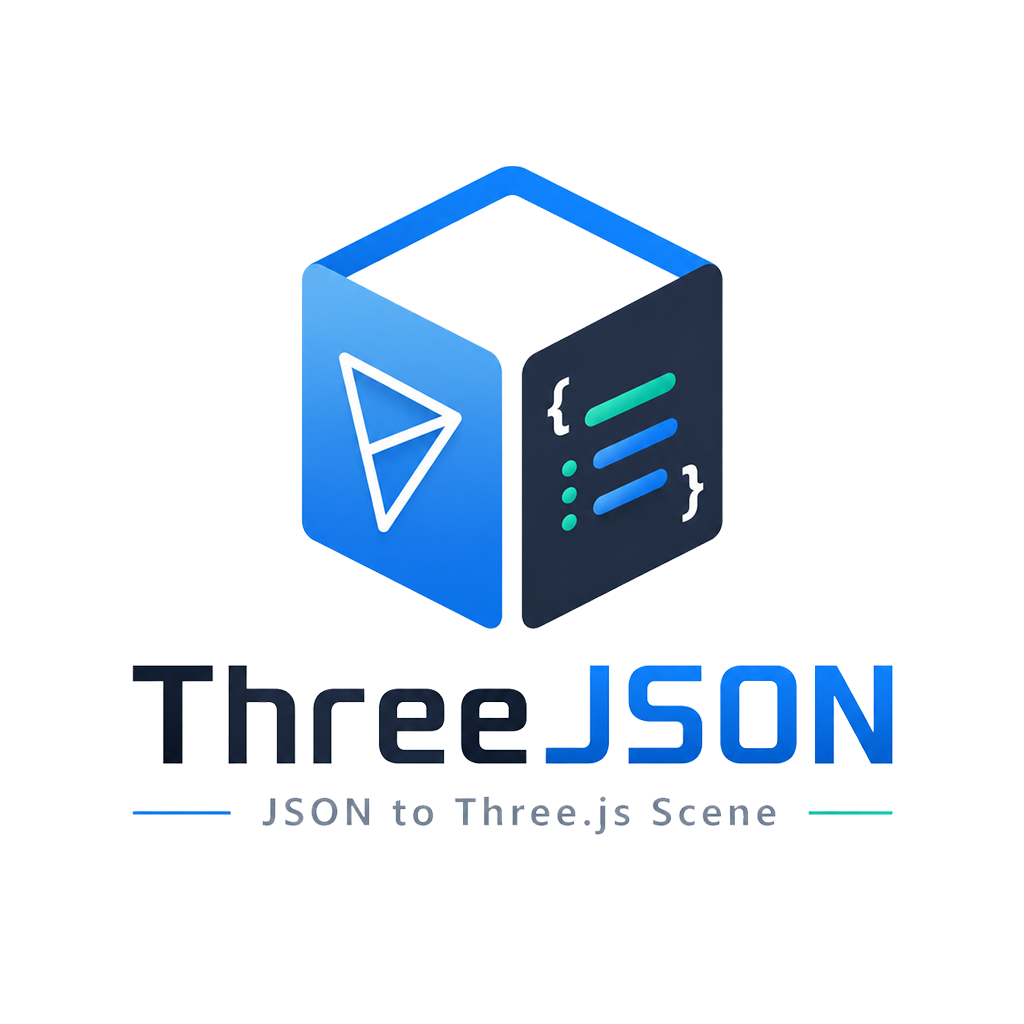
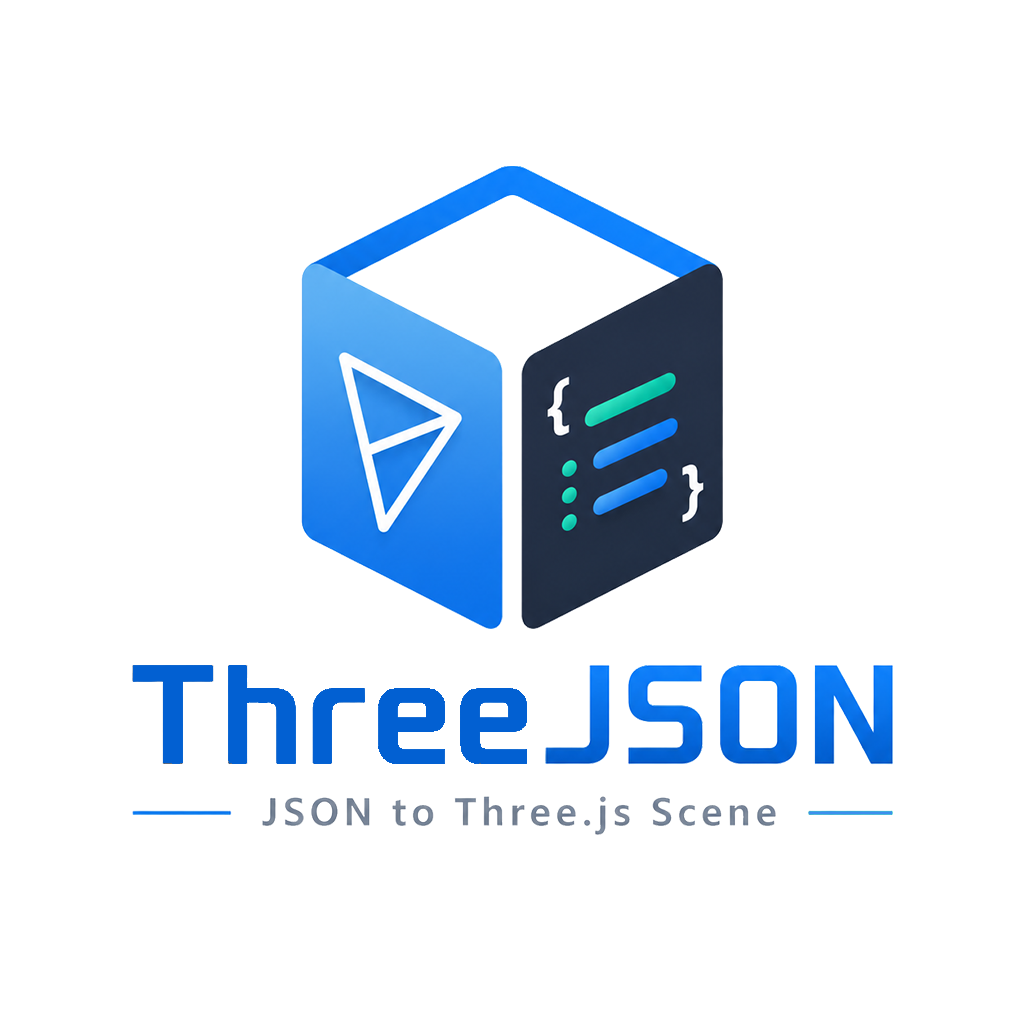
feat: fix editor

Changed region(s): [[0.125, 0.625, 0.5312, 0.75], [0.8125, 0.7812, 0.875, 0.8125]]

diff --git a/tools/scene-host/editor/js/editorApp.js b/tools/scene-host/editor/js/editorApp.js
@@ -1827,6 +1827,27 @@ export async function bootstrapSceneHostEditor() {
     }
   });
 
+  /** Strips the blank-orbit preset's default "room-floor" object unless the user opted in via
+   * Settings → General → 新建场景默认添加地板 (general.newSceneIncludeFloor, default off). */
+  function stripDefaultFloorIfDisabled(payload) {
+    if (editorSettings?.general?.newSceneIncludeFloor) {
+      return payload;
+    }
+    if (!payload || !Array.isArray(payload.objectList)) {
+      return payload;
+    }
+    return {
+      ...payload,
+      objectList: payload.objectList.filter((entry) => entry?.objType !== "floor")
+    };
+  }
+
+  function openBlankScenePreset() {
+    return presetScenePanel?.openPresetById?.(BLANK_SCENE_PRESET_ID, {
+      transformPayload: stripDefaultFloorIfDisabled
+    });
+  }
+
   function wireMenus() {
     initTopMenubarExclusiveOpen(document, closeAllDropdowns);
     document.getElementById("menuOpenScene")?.addEventListener("click", () => {
@@ -1838,6 +1859,9 @@ export async function bootstrapSceneHostEditor() {
     });
     document.getElementById("emptyStateOpenBtn")?.addEventListener("click", () => {
       fileInputs.topBarOpen?.click();
+    });
+    document.getElementById("emptyStateNewBtn")?.addEventListener("click", () => {
+      void openBlankScenePreset();
     });
     document.getElementById("emptyStateOpenDefaultBtn")?.addEventListener("click", () => {
       void loadSceneFromUrl(getDefaultSceneJsonUrl(editorSettings), "示例场景");
@@ -1967,7 +1991,7 @@ export async function bootstrapSceneHostEditor() {
       closeAllDropdowns();
     });
     document.getElementById("menuNewBlankOrbit")?.addEventListener("click", () => {
-      void presetScenePanel?.openPresetById?.(BLANK_SCENE_PRESET_ID);
+      void openBlankScenePreset();
       closeAllDropdowns();
     });
     document.getElementById("menuUndo")?.addEventListener("click", () => {

diff --git a/tools/scene-host/editor/js/presetScenePanel.js b/tools/scene-host/editor/js/presetScenePanel.js
@@ -58,7 +58,7 @@ export function createPresetScenePanel(host) {
     contextMenu.style.top = `${Math.max(8, top)}px`;
   }
 
-  async function openPresetScene(entry) {
+  async function openPresetScene(entry, options = {}) {
     if (!entry?.id) {
       host.showMessage("场景预设配置无效。", "warning");
       return;
@@ -67,10 +67,13 @@ export function createPresetScenePanel(host) {
     if (!ok) {
       return;
     }
-    const parsed = await readPresetJson(entry.id);
+    let parsed = await readPresetJson(entry.id);
     if (!parsed) {
       host.showMessage("场景预设缓存不存在，请刷新页面后重试。", "warning");
       return;
+    }
+    if (typeof options.transformPayload === "function") {
+      parsed = options.transformPayload(parsed) || parsed;
     }
     host.toggleStartupEmptyState?.(false);
     host.getUi?.()?.setLoadingMessage?.("正在加载场景预设...");
@@ -214,7 +217,7 @@ export function createPresetScenePanel(host) {
   return {
     init,
     refresh,
-    async openPresetById(presetId) {
+    async openPresetById(presetId, options = {}) {
       const entries = await loadPresetSceneEntries();
       const entry = entries.find((item) => item.id === presetId);
       if (!entry) {
@@ -222,7 +225,7 @@ export function createPresetScenePanel(host) {
         return;
       }
       host.closeAllDropdowns?.();
-      await openPresetScene(entry);
+      await openPresetScene(entry, options);
     }
   };
 }

diff --git a/tools/scene-host/editor/_shell-body.html b/tools/scene-host/editor/_shell-body.html
@@ -154,9 +154,10 @@
         <button type="button" class="editModeSeg" data-trans-mode="rotate" aria-pressed="false" title="旋转">旋转</button>
         <button type="button" class="editModeSeg" data-trans-mode="scale" aria-pressed="false" title="缩放">缩放</button>
       </div>
-      <div class="editModeToggle" id="editModeToggle" role="group" aria-label="编辑模式：3D 图形 / Code 代码">
-        <button type="button" class="editModeSeg editModeSegActive" id="editModeSeg3d" aria-pressed="true" title="图形编辑模式（在画布中直接操作）">3D</button>
+      <div class="editModeToggle" id="editModeToggle" role="group" aria-label="编辑模式：Code / All / 3D">
         <button type="button" class="editModeSeg" id="editModeSegCode" aria-pressed="false" title="代码编辑模式（编辑场景 JSON，右上角预览）">Code</button>
+        <button type="button" class="editModeSeg" id="editModeSegAll" aria-pressed="false" title="分屏编辑模式（左侧 JSON，右侧画布）">All</button>
+        <button type="button" class="editModeSeg editModeSegActive" id="editModeSeg3d" aria-pressed="true" title="图形编辑模式（在画布中直接操作）">3D</button>
       </div>
       <button class="toolBtn secondary" id="topBarBtnRunScene" type="button" title="与「运行 → 运行场景」相同（Alt+F5）">▶ 运行</button>
       <button class="toolBtn secondary" id="topBarBtnOpenScene" type="button" title="与「文件 → 导入 ▸ 导入 ThreeJSON」相同">打开</button>
@@ -182,7 +183,10 @@
     </div>
     <div id="messageBox"></div>
     <div id="editorStartupEmptyState" class="editorStartupEmptyState" hidden>
-      <button class="toolBtn secondary" id="emptyStateOpenBtn" type="button">打开</button>
+      <div class="editorStartupPrimaryActions">
+        <button class="toolBtn secondary" id="emptyStateOpenBtn" type="button">打开</button>
+        <button class="toolBtn secondary" id="emptyStateNewBtn" type="button">新建</button>
+      </div>
       <button class="toolBtn linkLike editorStartupSampleBtn" id="emptyStateOpenDefaultBtn" type="button">打开示例场景</button>
       <div class="editorStartupRecentWrap">
         <div class="editorStartupRecentTitle">最近打开</div>

diff --git a/tools/scene-host/editor/index.html b/tools/scene-host/editor/index.html
@@ -189,9 +189,10 @@
         <button type="button" class="editModeSeg" data-trans-mode="rotate" aria-pressed="false" title="旋转">旋转</button>
         <button type="button" class="editModeSeg" data-trans-mode="scale" aria-pressed="false" title="缩放">缩放</button>
       </div>
-      <div class="editModeToggle" id="editModeToggle" role="group" aria-label="编辑模式：3D 图形 / Code 代码" data-i18n="editor.shell.editModeToggle">
-        <button type="button" class="editModeSeg editModeSegActive" id="editModeSeg3d" aria-pressed="true" title="图形编辑模式（在画布中直接操作）" data-i18n-title="editor.shell.editModeSeg3d.title">3D</button>
+      <div class="editModeToggle" id="editModeToggle" role="group" aria-label="编辑模式：Code / All / 3D" data-i18n="editor.shell.editModeToggle">
         <button type="button" class="editModeSeg" id="editModeSegCode" aria-pressed="false" title="代码编辑模式（编辑场景 JSON，右上角预览）" data-i18n-title="editor.shell.editModeSegCode.title">Code</button>
+        <button type="button" class="editModeSeg" id="editModeSegAll" aria-pressed="false" title="分屏编辑模式（左侧 JSON，右侧画布）" data-i18n-title="editor.shell.editModeSegAll.title">All</button>
+        <button type="button" class="editModeSeg editModeSegActive" id="editModeSeg3d" aria-pressed="true" title="图形编辑模式（在画布中直接操作）" data-i18n-title="editor.shell.editModeSeg3d.title">3D</button>
       </div>
       <button class="toolBtn secondary" id="topBarBtnRunScene" type="button" title="与「运行 → 运行场景」相同（Alt+F5）" data-i18n-title="editor.shell.topBarBtnRunScene.title">▶ 运行</button>
       <button class="toolBtn secondary" id="topBarBtnOpenScene" type="button" title="与「文件 → 导入 ▸ 导入 ThreeJSON」相同" data-i18n-title="editor.shell.topBarBtnOpenScene.title">打开</button>
@@ -217,7 +218,10 @@
     </div>
     <div id="messageBox"></div>
     <div id="editorStartupEmptyState" class="editorStartupEmptyState" hidden>
-      <button class="toolBtn secondary" id="emptyStateOpenBtn" type="button" data-i18n="editor.shell.emptyStateOpenBtn">打开</button>
+      <div class="editorStartupPrimaryActions">
+        <button class="toolBtn secondary" id="emptyStateOpenBtn" type="button" data-i18n="editor.shell.emptyStateOpenBtn">打开</button>
+        <button class="toolBtn secondary" id="emptyStateNewBtn" type="button" data-i18n="editor.shell.emptyStateNewBtn">新建</button>
+      </div>
       <button class="toolBtn linkLike editorStartupSampleBtn" id="emptyStateOpenDefaultBtn" type="button" data-i18n="editor.shell.emptyStateOpenDefaultBtn">打开示例场景</button>
       <div class="editorStartupRecentWrap">
         <div class="editorStartupRecentTitle">最近打开</div>

diff --git a/tools/scene-host/shared/js/editorSettingsSchema.js b/tools/scene-host/shared/js/editorSettingsSchema.js
@@ -27,6 +27,7 @@ export const EDITOR_SETTINGS_DEFAULTS = {
       baseTitle: "Scene Editor",
       defaultSceneUrl: "../../../../assets/json/portShow.json",
       openLastSceneOnStartup: false,
+      newSceneIncludeFloor: false,
       exitNavigateUrl: "../../../../examples/html-demo/demo.html",
       loadingMaskText: "Loading 3D scene…",
       loadingActivityIntervalMs: 120,
@@ -210,6 +211,13 @@ export const EDITOR_SETTINGS_FIELDS = [
       path: "general.openLastSceneOnStartup",
       type: "checkbox",
       label: "启动时打开上次打开的场景"
+    },
+    {
+      section: "general",
+      path: "general.newSceneIncludeFloor",
+      type: "checkbox",
+      label: "新建场景默认添加地板",
+      hint: "关闭后，「文件 → 新建 → 普通场景」与空状态「新建」按钮创建的场景不会自带地板对象。"
     },
     { section: "general", path: "general.exitNavigateUrl", type: "text", label: "退出编辑器跳转 URL" },
     { section: "general", path: "general.loadingMaskText", type: "text", label: "加载遮罩文案" },

diff --git a/tools/scene-host/shared/css/editor-base.css b/tools/scene-host/shared/css/editor-base.css
@@ -1631,6 +1631,13 @@ html, body {
       pointer-events: none;
     }
 
+    .editorStartupPrimaryActions {
+      display: flex;
+      align-items: center;
+      justify-content: center;
+      gap: 8px;
+    }
+
     .editorStartupSampleBtn {
       color: #9ecbff;
       text-decoration: none;

diff --git a/tools/scene-host/shared/i18n/editorShellLabels.en.js b/tools/scene-host/shared/i18n/editorShellLabels.en.js
@@ -100,6 +100,7 @@ export const EDITOR_SHELL_LABELS_EN = {
   "editor.shell.debugSideView.label": "Side",
   "editor.shell.loadingMaskMessage": "Loading 3D scene…",
   "editor.shell.emptyStateOpenBtn": "Open",
+  "editor.shell.emptyStateNewBtn": "New",
   "editor.shell.emptyStateOpenDefaultBtn": "Open Sample Scene",
   "editor.shell.editorStartupRecentTitle": "Recently Opened",
   "editor.shell.codeEditorRenderBtn": "Render JSON to Canvas",